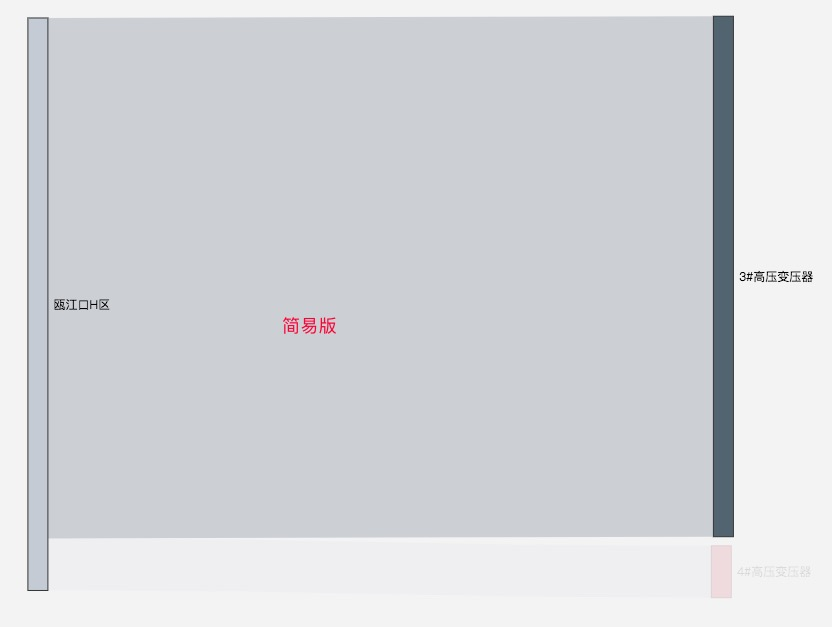
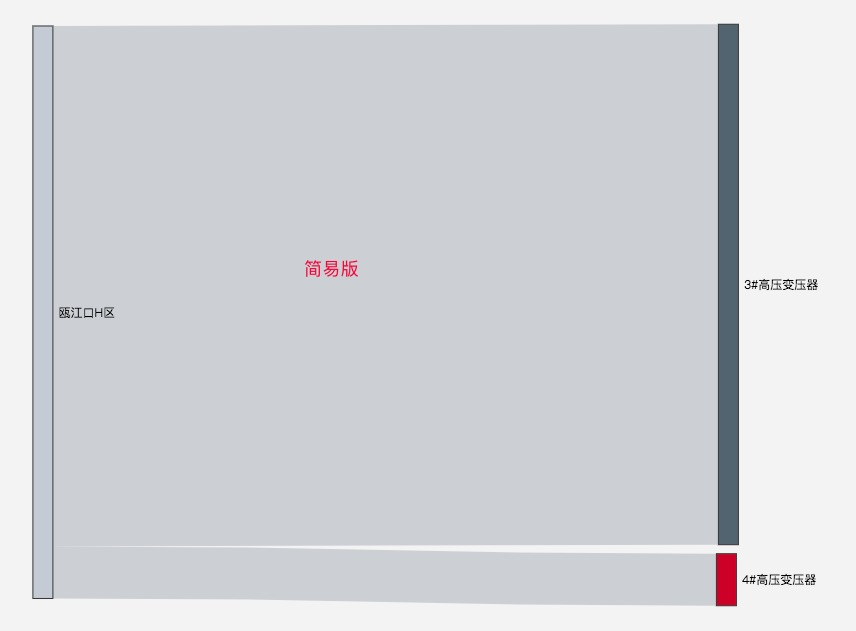
第六次提交（2019.4.9 14:26）| 阶段总结

Changed region(s): [[0.0312, 0.0, 1.0, 0.9697], [0.3438, 0.3939, 0.4375, 0.4545], [0.3438, 0.4848, 0.4062, 0.5455]]

diff --git a/README.md b/README.md
@@ -1,6 +1,6 @@
 ### 前言 🔥
 
-> 一年多前参加 河北省大数据比赛的时候，学习过Echart, D3，但是当时的方向没有专一，对学习哪个没有明确方向，加上一年多来没怎么用过了，所以渐渐忘记了，所以打算用一天的事件好好整理下，这里作为一个学习项目来做，也算是自己的一个笔记
+> 2017年参加 河北省大数据比赛的时候，学习过Echart, D3，但是当时的方向没有专一，对学习哪个没有明确方向，加上一年多来没怎么用过了，所以渐渐忘记了，所以打算用一天的事件好好整理下，这里作为一个学习项目来做，也算是自己的一个笔记
 
 ---
 
@@ -173,7 +173,7 @@ option = {
 
 ---
 
-### 第五次提交（2019.4.9 14:11）| 桑基图Sankey（基本使用）
+### 第五次提交（2019.4.9 14:11）| 桑基图Sankey（基本使用） 🏎
 
 > 搞这个的原因，还是工作中用到了 ⌨ 完整版见 index.js 🚀03
 
@@ -209,3 +209,9 @@ option = {
 ![image](https://github.com/zhukunpenglinyutong/Echarts-Study/blob/master/imgs/5-2.png)
 
 ---
+
+### 第六次提交（2019.4.9 14:26）| 阶段总结 🔥🔥🔥
+
+> 🔥 为什么复习一遍 Echarts 呢？主要是公司现在的项目用到了，但是有些东西我还是不会，所以来搞一下，学习了这两三个小时，我大致会使用 柱状图，折线图，桑吉图这三种，还了解了一些配置，例如提示框，图例组件，x/y轴配置，数据项配置，也知道在哪里查询：🇨🇳option怎么配置🇨🇳：https://echarts.baidu.com/option.html，所以说，本项目暂时告一段落，以后进行一些小幅度的修改，等到合适的时候，进行系统性的学习，和深入的探索
+
+`朱昆鹏 2019.4.9 于 北京智雨物联`
